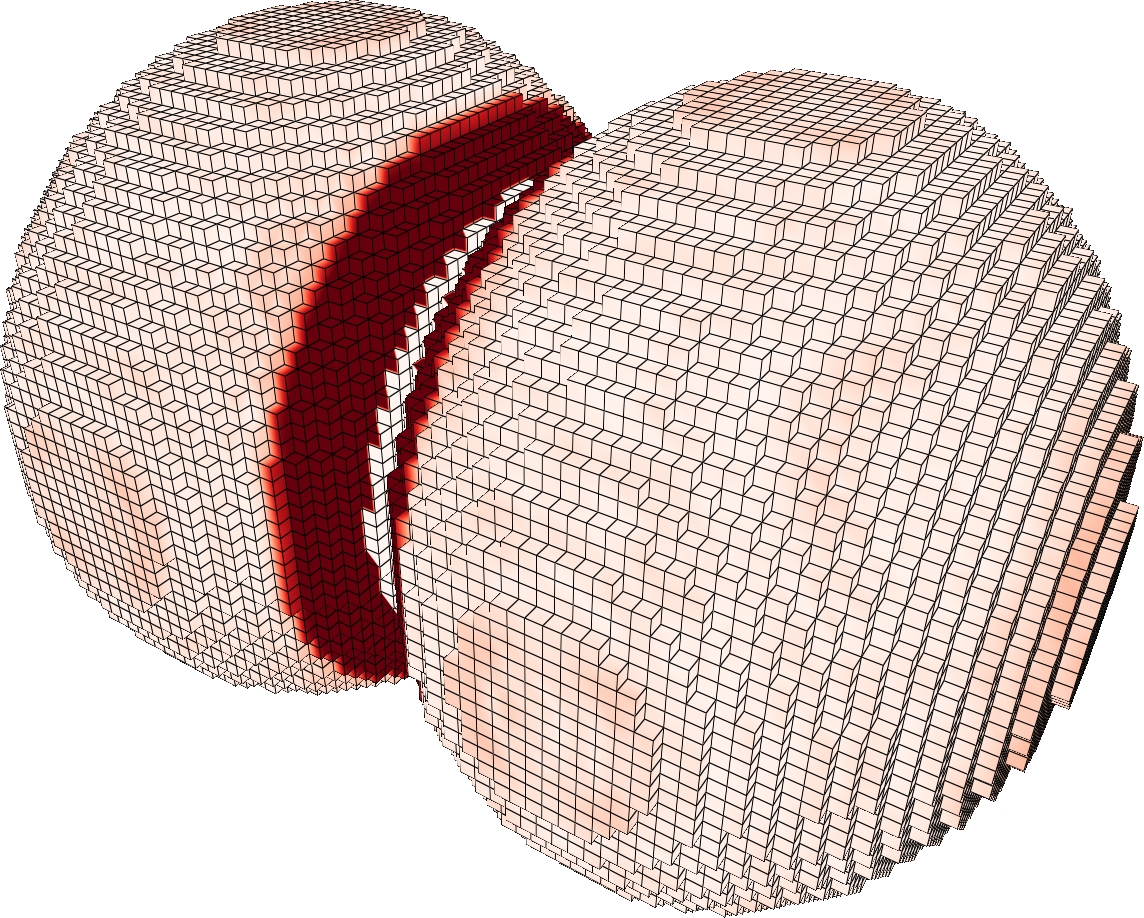
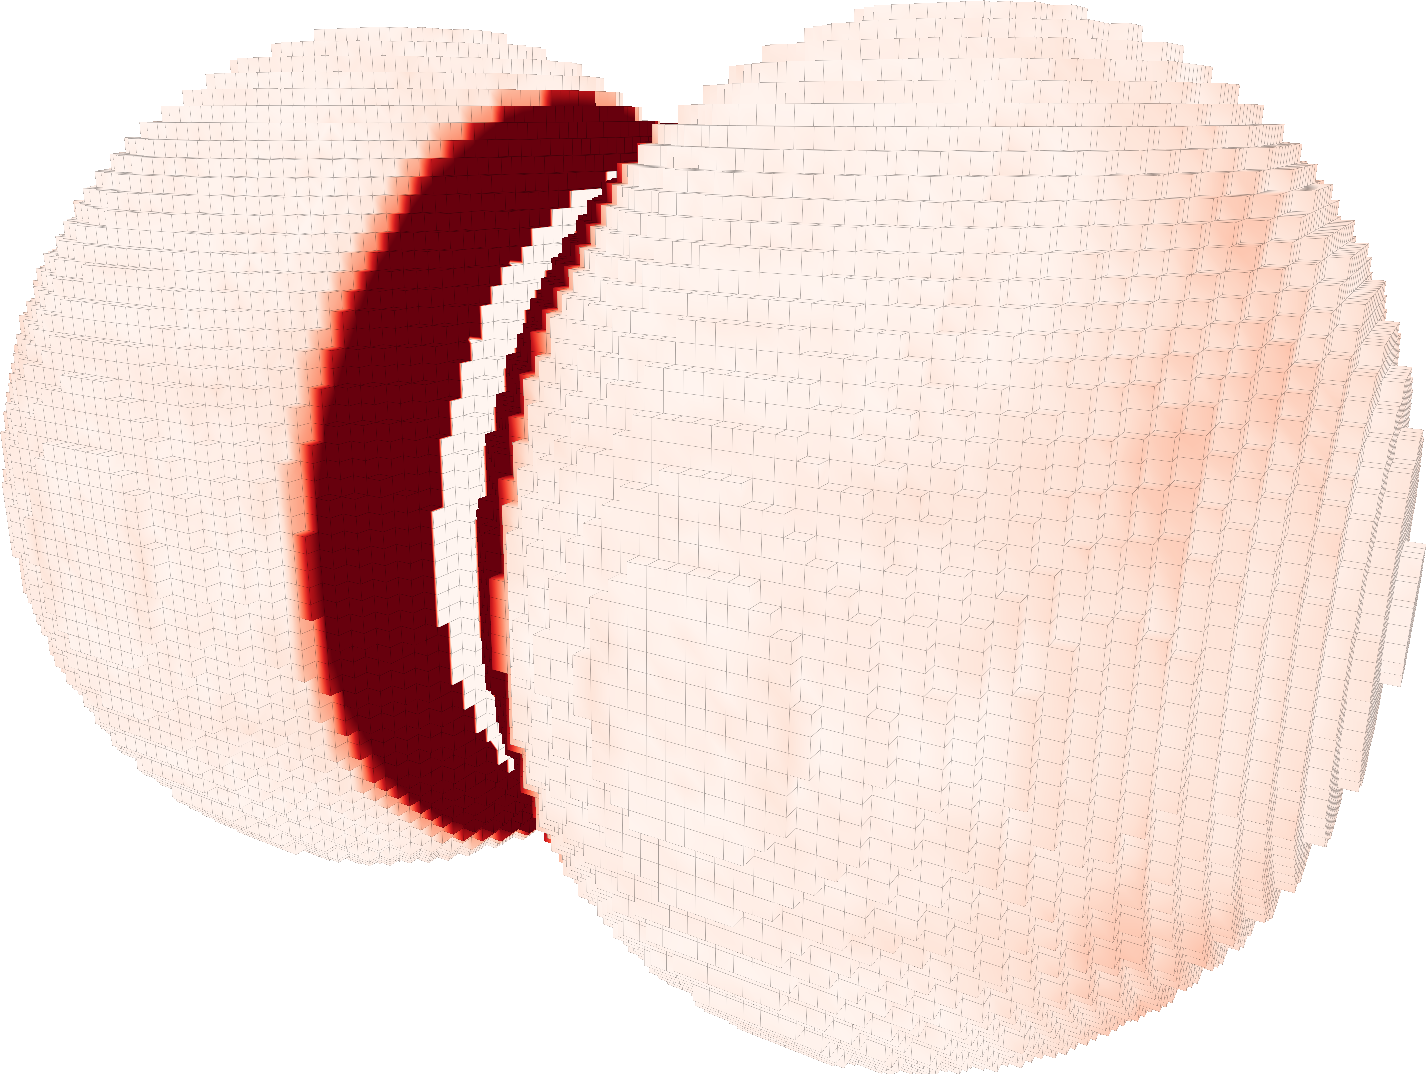
error normals quality

diff --git a/JMIV2026/normalsandcurvature.tex b/JMIV2026/normalsandcurvature.tex
@@ -59,7 +59,7 @@ the normal estimation, so we kept it to 1 for all the tests.
     \centering
     \begin{tabular}{|c||c|c|c|c|}
         \hline
-        $h$ & 0.4 & 0.3 & 0.2 & 0.1 \\
+        $h$ & 0.11 & 0.065 & 0.0325 & 0.01625 \\
         \hline
         \hline
         \rowcolor{MyLG}
@@ -102,7 +102,7 @@ the normal estimation, so we kept it to 1 for all the tests.
     \caption{Normal error on the ellipsoids shape for different methods and different gridsteps.
     VN stands for Visibility Normal, and the subscript stands for the kernel used (Uniform, Gaussian or Ring).
     The error is colored from white (0 rad) to deep red (0.1 rad $\approx$ 5.73\textdegree). II normals are computed using a radius of
-    $r=4.5$, PCA with a discrete radius of $\sigma = 3.5h^{-\frac{1}{2}}$, while our
+    $r=\frac{7}{6}$, PCA with a discrete radius of $\sigma = 2h^{-\frac{1}{2}}$, while our
     normal estimator are computed based on the mean visibility distance}
     \label{fig:errors-normals-showcase-ellipsoids}
 \end{figure*}
@@ -126,15 +126,13 @@ does not influence the convergence of the normal estimator, but only the constan
 
 Figure~\ref{fig:errors-normals} also shows these errors computed on 2 piecewise smooth shapes
 (cubesphere and double ellipsoid). In order to capture the behavior of the normal estimators,
-we ignore the points that are closer than $2h$ to the singularities of the shapes (see~\ref{fig:singularities-showcase}).
-We see that the RMSE and $E_{\max}$ are better at higher gridsteps than both II and PCA, with a convergence rate higher than $h^{\frac{2}{3}}$,
-II and PCA catching back on the error at lower gridsteps is due to to the singularity zone being
-at a continuous width instead of a discrete width, which allows them to be correct at a certain point. It however doesn't seem
+we ignore the points that are closer than $4h$ to the singularities for cubesphere and $8h$ for the ellipsoid union (see~\ref{fig:singularities-showcase}).
+We see that the RMSE and $E_{\max}$ are much better than both II and PCA, with a convergence rate at $h^{\frac{2}{3}}$,
+both failing to scale properly to accomodate the saillency. It however doesn't seem
 to have a better kernel between the ring and the gaussian kernel, sometimes one is better than the other, but
 it really depends on what kind of shapes we are facing with. We can also notice that the singularity zone on the ellipsoids
 might be a bit too small for smaller gridsteps, since the error shown in~\ref{fig:errors-normals-showcase-ellipsoids} seems to accumulate around
 the singularity for all estimators.
-\comment[id=ROM]{I need to redo the normal errors for VNs as they do not correspond anymore to fig:errors-normals-showcase-ellipsoids}
 
 \begin{figure*}
     \centering
